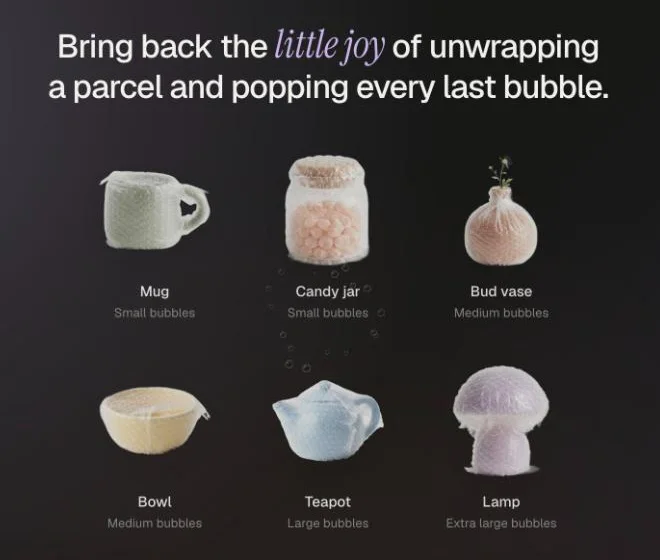
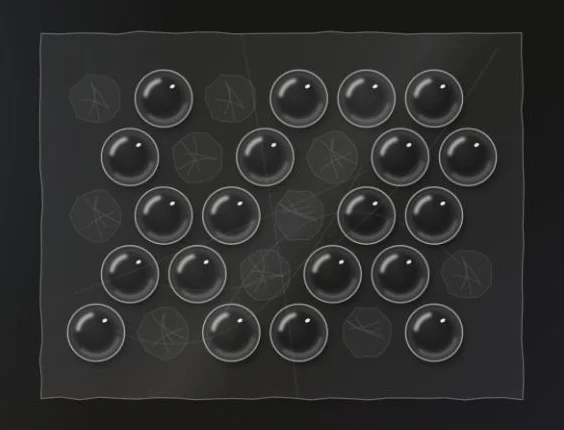
Playground: Bubble Burst tile shows the bubble wrap mid-pop
Claude-Session: https://claude.ai/code/session_019YjoSaUHf4c8bcPPyJGnQg

diff --git a/playground/index.html b/playground/index.html
@@ -108,8 +108,8 @@ body{margin:0;background:var(--paper);color:var(--ink);font-family:var(--sans);f
       <div class="pm"><img src="img/pond.webp" alt="Painted ducks and ducklings swimming in a pond with lily pads and cloud reflections" width="760" height="540" draggable="false"><span class="go">Feed them ↗</span></div>
       <div class="pl"><b>Duck pond</b><span>the 404 page</span><i>Nov 2026</i></div>
     </a>
-    <a class="pi" data-id="bubble" href="/bubble-burst/" target="_blank" rel="noopener" style="left:900px;top:-40px;width:290px;--r:-2.5deg">
-      <div class="pm" style="background:#1d1a1f"><img src="img/bubble.webp" alt="Bubble Burst: six objects wrapped in bubble wrap, a mug, candy jar, bud vase, bowl, teapot and lamp" width="660" height="560" draggable="false"><span class="go">Pop some ↗</span></div>
+    <a class="pi" data-id="bubble" href="/bubble-burst/" target="_blank" rel="noopener" style="left:900px;top:10px;width:300px;--r:-2.5deg">
+      <div class="pm" style="background:#1d1a1f"><img src="img/bubble.webp" alt="Bubble Burst: a sheet of bubble wrap with ten bubbles popped" width="564" height="430" draggable="false"><span class="go">Pop some ↗</span></div>
       <div class="pl"><b>Bubble Burst</b><span>a sheet of bubble wrap</span><i>Nov 2026</i></div>
     </a>
     <a class="pi dw" data-id="diwali" href="/diwali-2026/" target="_blank" rel="noopener" style="left:480px;top:300px;width:640px;--r:-1.2deg">
